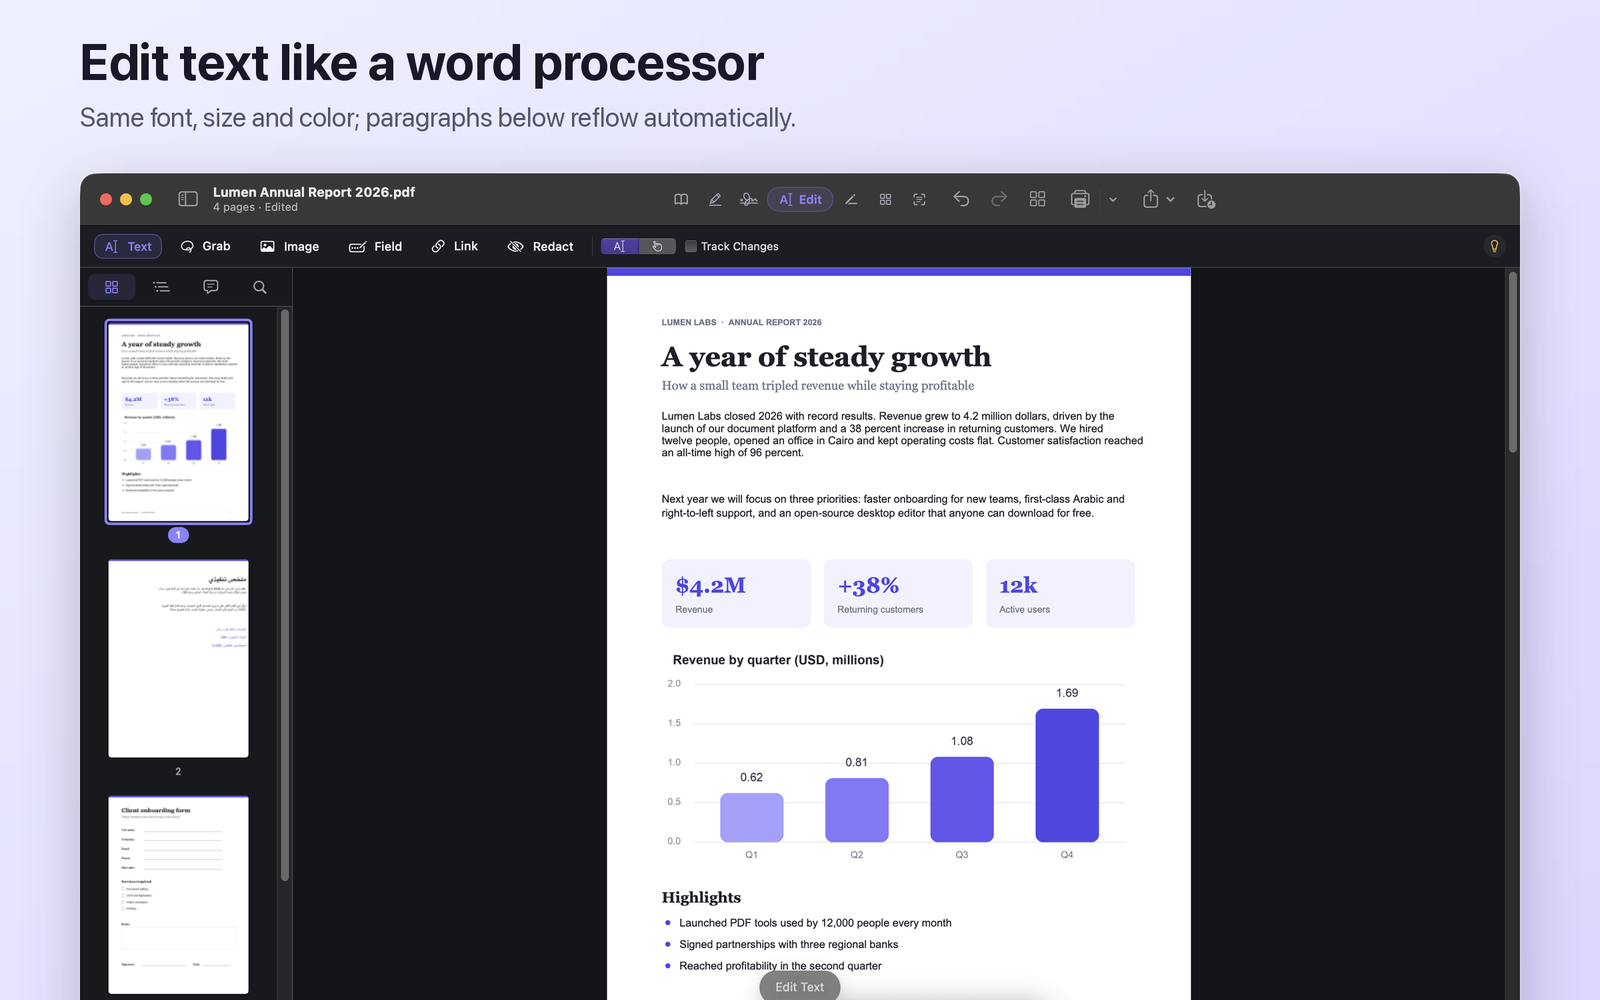
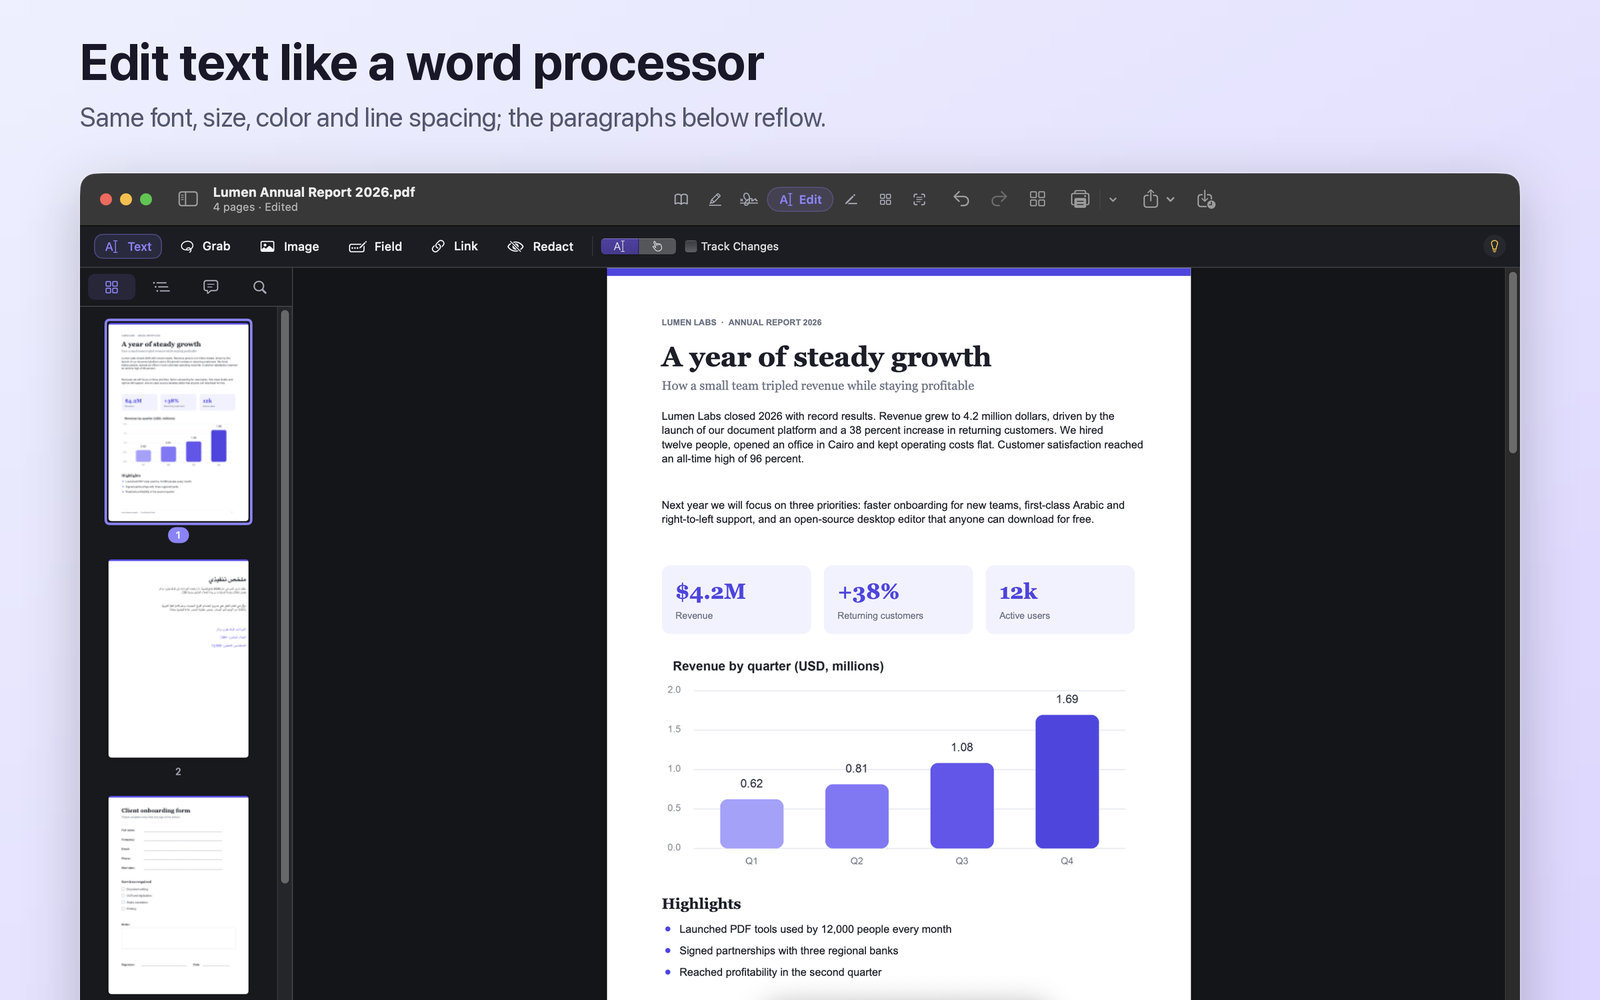
README screenshots for every feature, CI workflow, demo document tweaks

diff --git a/docs/screenshots/make_demo_docs.py b/docs/screenshots/make_demo_docs.py
@@ -152,25 +152,49 @@ def main() -> None:
     doc.save(str(base))
 
     # Arabic page through the engine's RTL writer (shaped, logical copy/paste).
-    step = out / "step.pdf"
-    engine("add-text", "--input", str(base), "--output", str(step), "--page", "2", "--x", "56", "--y", "70",
-           "--text", "ملخص تنفيذي", "--font-size", "26", "--bold", "--align", "right", "--color", "#1c1f29")
+    # add-text's "auto" alignment right-aligns inside the text's natural width,
+    # so measure that on a scratch page first and anchor it to the right margin.
+    scratch = out / "scratch.pdf"
+    blank = fitz.open()
+    blank.new_page(width=595, height=842)
+    blank.save(str(scratch))
+
+    def add_rtl(src: Path, dst: Path, y: float, text: str, size: float, color: str, bold: bool = False) -> Path:
+        extra = ["--bold"] if bold else []
+        probe = out / "probe.pdf"
+        engine("add-text", "--input", str(scratch), "--output", str(probe), "--page", "1", "--x", "56", "--y", str(y),
+               "--text", text, "--font-size", str(size), "--color", color, *extra)
+        with fitz.open(str(probe)) as d:  # ink extent (text spans carry /ActualText)
+            pix = d[0].get_pixmap(dpi=144, colorspace=fitz.csGRAY)
+        cols = [x for x in range(pix.width) if any(pix.pixel(x, y)[0] < 200 for y in range(0, pix.height, 2))]
+        width = (cols[-1] + 1) / 2 - 56
+        probe.unlink()
+        engine("add-text", "--input", str(src), "--output", str(dst), "--page", "2", "--x", f"{539 - width:.1f}",
+               "--y", str(y), "--text", text, "--font-size", str(size), "--color", color, *extra)
+        return dst
+
+    current = add_rtl(base, out / "step.pdf", 70, "ملخص تنفيذي", 26, "#1c1f29", bold=True)
     paragraphs = [
         (118, "حققت لومن لابس في عام 2026 نتائج قياسية، إذ ارتفعت الإيرادات إلى 4.2 مليون دولار\nبفضل إطلاق منصة المستندات وزيادة العملاء العائدين بنسبة 38٪."),
-        (190, "نركّز في العام المقبل على تسريع انضمام الفرق الجديدة، ودعم كامل للغة العربية\nوالكتابة من اليمين إلى اليسار، ومحرر مفتوح المصدر متاح للجميع مجاناً."),
+        (176, "نركّز في العام المقبل على تسريع انضمام الفرق الجديدة، ودعم كامل للغة العربية\nوالكتابة من اليمين إلى اليسار، ومحرر مفتوح المصدر متاح للجميع مجاناً."),
     ]
-    current = step
     for i, (y, text) in enumerate(paragraphs):
-        nxt = out / f"step{i}.pdf"
-        engine("add-text", "--input", str(current), "--output", str(nxt), "--page", "2", "--x", "56", "--y", str(y),
-               "--text", text, "--font-size", "13", "--align", "right", "--color", "#1c1f29")
-        current = nxt
+        current = add_rtl(current, out / f"step{i}.pdf", y, text, 13, "#1c1f29")
     figures = [("الإيرادات", "4.2 مليون دولار"), ("العملاء العائدون", "+38٪"), ("المستخدمون النشطون", "12,000")]
     for i, (label, value) in enumerate(figures):
-        nxt = out / f"fig{i}.pdf"
-        engine("add-text", "--input", str(current), "--output", str(nxt), "--page", "2", "--x", "56", "--y", str(290 + i * 34),
-               "--text", f"{label}: {value}", "--font-size", "14", "--align", "right", "--color", "#4f46e5")
-        current = nxt
+        current = add_rtl(current, out / f"fig{i}.pdf", 250 + i * 30, f"{label}: {value}", 14, "#4f46e5")
+    current = add_rtl(current, out / "h2.pdf", 362, "أبرز الإنجازات", 18, "#1c1f29", bold=True)
+    highlights = [
+        "• أطلقنا أدوات PDF يستخدمها 12,000 شخص كل شهر",
+        "• وقّعنا شراكات مع ثلاثة بنوك إقليمية",
+        "• حققنا الربحية في الربع الثاني من العام",
+    ]
+    for i, line in enumerate(highlights):
+        current = add_rtl(current, out / f"hl{i}.pdf", 398 + i * 26, line, 13, "#1c1f29")
+    closing = ("نشكر فريقنا وعملاءنا وشركاءنا على ثقتهم، ونتطلع إلى عام جديد\n"
+               "من النمو والابتكار في خدمة المستخدمين العرب حول العالم.")
+    current = add_rtl(current, out / "close.pdf", 500, closing, 13, "#545a6e")
+    scratch.unlink()
 
     final = fitz.open(str(current))
     scanned_page(final, final)
@@ -179,8 +203,9 @@ def main() -> None:
     final.save(str(target), garbage=4, deflate=True)
     for f in out.glob("step*.pdf"):
         f.unlink()
-    for f in out.glob("fig*.pdf"):
-        f.unlink()
+    for pattern in ("fig*.pdf", "hl*.pdf", "h2.pdf", "close.pdf"):
+        for f in out.glob(pattern):
+            f.unlink()
     base.unlink()
     print(target)
 

diff --git a/docs/screenshots/compose.py b/docs/screenshots/compose.py
@@ -17,6 +17,7 @@ ROOT = Path(__file__).resolve().parents[2]
 OUT = ROOT / "docs" / "images"
 SF = "/System/Library/Fonts/SFNS.ttf"
 ICON = ROOT / "Resources" / "AppIcon.png"
+SHEET_TOP = 166  # px below the window top where macOS attaches sheets (2x capture)
 
 
 def font(size: int, weight: str = "Regular") -> ImageFont.FreeTypeFont:
@@ -146,20 +147,29 @@ def main() -> None:
 
     def load(name: str) -> Image.Image | None:
         p = shots / f"{name}.png"
-        return Image.open(p).convert("RGBA") if p.exists() else None
+        if not p.exists():
+            return None
+        img = Image.open(p).convert("RGBA")
+        sheet_path = shots / f"{name}.sheet.png"
+        if sheet_path.exists():  # an attached sheet is captured separately
+            sheet = Image.open(sheet_path).convert("RGBA")
+            layer = Image.new("RGBA", img.size, (0, 0, 0, 0))
+            paste_with_shadow(layer, sheet, ((img.width - sheet.width) // 2, SHEET_TOP), blur=30, offset=16, alpha=170)
+            img = Image.alpha_composite(img, layer)
+        return img
 
     if (s := load("edit")) is not None:
         hero(s, OUT / "hero.png")
     cards = [
-        ("edited", "feature-edit", "Edit text like a word processor", "Same font, size and color; paragraphs below reflow automatically.", "indigo", None),
+        ("edited", "feature-edit", "Edit text like a word processor", "Same font, size, color and line spacing; the paragraphs below reflow.", "indigo", None),
         ("arabic", "feature-arabic", "Arabic & right-to-left, done right", "Shaped, joined text that copies and searches in logical order.", "teal", None),
         ("pages", "feature-pages", "Organize pages", "Drag to reorder, rotate, insert, extract, split and merge.", "slate", None),
         ("tools", "feature-tools", "Every tool, one click away", "Forms, OCR, protect, stamp, convert, compare and more.", "rose", None),
         ("palette", "feature-palette", "Command palette", "Press ⌘K and type what you want to do.", "indigo", None),
-        ("ocr", "feature-ocr", "OCR scanned documents", "Apple Vision on-device: Arabic, English and 30+ languages.", "amber", None),
-        ("forms", "feature-forms", "Fill and create forms", "Auto-detect blanks and checkboxes, or draw fields yourself.", "teal", None),
-        ("stamp", "feature-stamp", "Watermarks, signatures & annotations", "Stamps, headers and footers, Bates numbers, highlights and notes.", "rose", None),
-        ("print", "feature-print", "Print to USB HP LaserJet", "Built-in support for host-based LaserJets that macOS dropped.", "slate", None),
+        ("ocr_search", "feature-ocr", "OCR scanned documents", "Apple Vision on-device: scans become searchable, in Arabic and 30+ languages.", "amber", None),
+        ("forms", "feature-forms", "Fill and create forms", "Auto-detect turns blanks and boxes into fields; Tab moves between them.", "teal", None),
+        ("wm", "feature-stamp", "Watermarks, stamps & signatures", "Live preview, any language, over or behind the page.", "rose", None),
+        ("print", "feature-print", "Print to a USB HP LaserJet", "Built-in support for host-based LaserJets that macOS dropped.", "slate", None),
         ("welcome", "feature-welcome", "Private by design", "Everything runs on your Mac. No account, no upload, no subscription.", "indigo", None),
     ]
     for src, name, title, subtitle, accent, crop in cards:

diff --git a/README.md b/README.md
@@ -67,7 +67,7 @@ curl -fsSL https://raw.githubusercontent.com/mhatem5351/folio-pdf-mac/main/insta
 | 🌍 **Arabic & RTL** | Arabic is shaped with HarfBuzz and written with an `/ActualText` layer, so copy, paste, search and text export come out in logical order. Text direction is detected automatically, with right alignment for Arabic. |
 | 🖼 **Edit images** | Select an image on the page to move it, resize it with handles, rotate, replace, extract or delete it. Only that image changes; the rest of the page stays as it was. |
 | 🔎 **OCR** | Apple Vision OCR runs on your Mac and supports Arabic, English and more than 30 other languages. It adds an invisible, searchable text layer to scans. Folio prepares Vision as soon as it detects a scanned document. Tesseract is also supported. |
-| 📝 **Forms** | Fill in forms. **Auto-detect** finds blanks (`Name: ____`), boxes and checkboxes and turns them into fields. You can also draw text, checkbox, radio, dropdown, list and signature fields yourself. |
+| 📝 **Forms** | Fill in forms right on the page; **Tab** moves to the next field. **Auto-detect** finds blanks (`Name: ____`), boxes and checkboxes, labels them and turns them into fields. You can also draw text, checkbox, radio, dropdown, list and signature fields yourself. |
 | ✒ **Sign & annotate** | Signatures, highlights, underline, strikethrough, notes, text boxes and review marks, plus a comments list in the sidebar. |
 | 📑 **Organize pages** | A thumbnail grid where you can drag to reorder pages, and rotate, insert, copy, paste, extract or delete them. You can also merge files, add page numbers, make page sizes uniform and split a file by ranges, every N pages, bookmarks or file size. |
 | 💧 **Stamp** | Text or image watermarks, including Arabic, with opacity and rotation. Headers and footers with `{page}`, `{pages}`, `{date}` and `{title}` fields. Bates numbering. |
@@ -131,7 +131,7 @@ To build the downloadable, self-contained app (it bundles a standalone CPython w
 ./script/qa.sh                      # builds, then runs every engine and UI-invariant suite
 ```
 
-The suites in `Tests/` cover editing and reflow, line spacing, Arabic shaping and extraction, OCR layers, forms, stamps, conversion and a matrix of more than 100 engine operations.
+The suites in `Tests/` cover editing and reflow, line spacing, Arabic shaping and extraction, OCR layers, forms, stamps, conversion and a matrix of more than 100 engine operations. CI builds the app and runs the engine suites on every push.
 
 ## How it works
 
